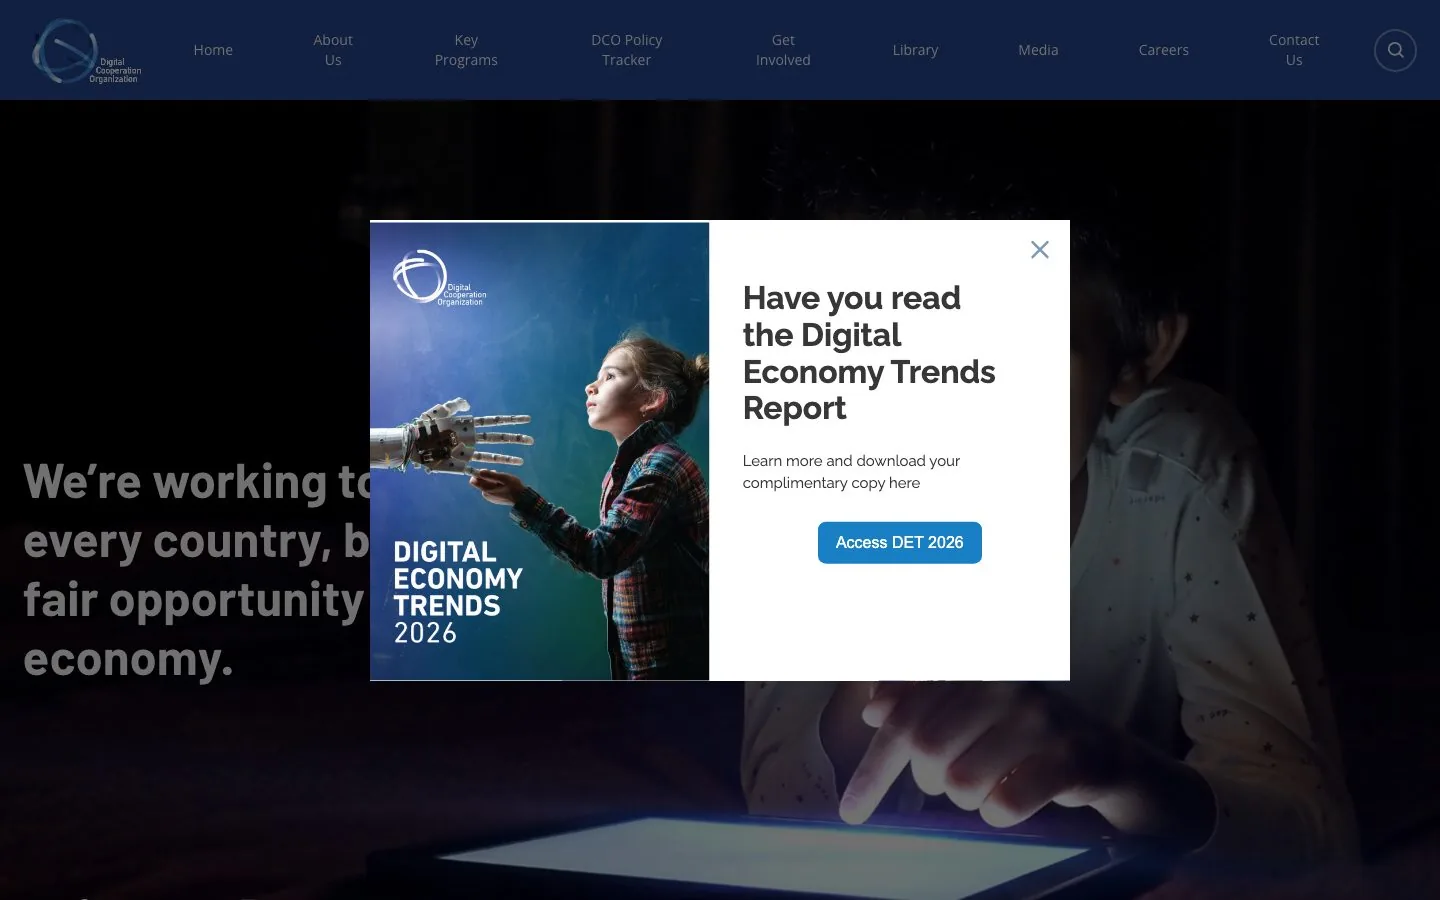
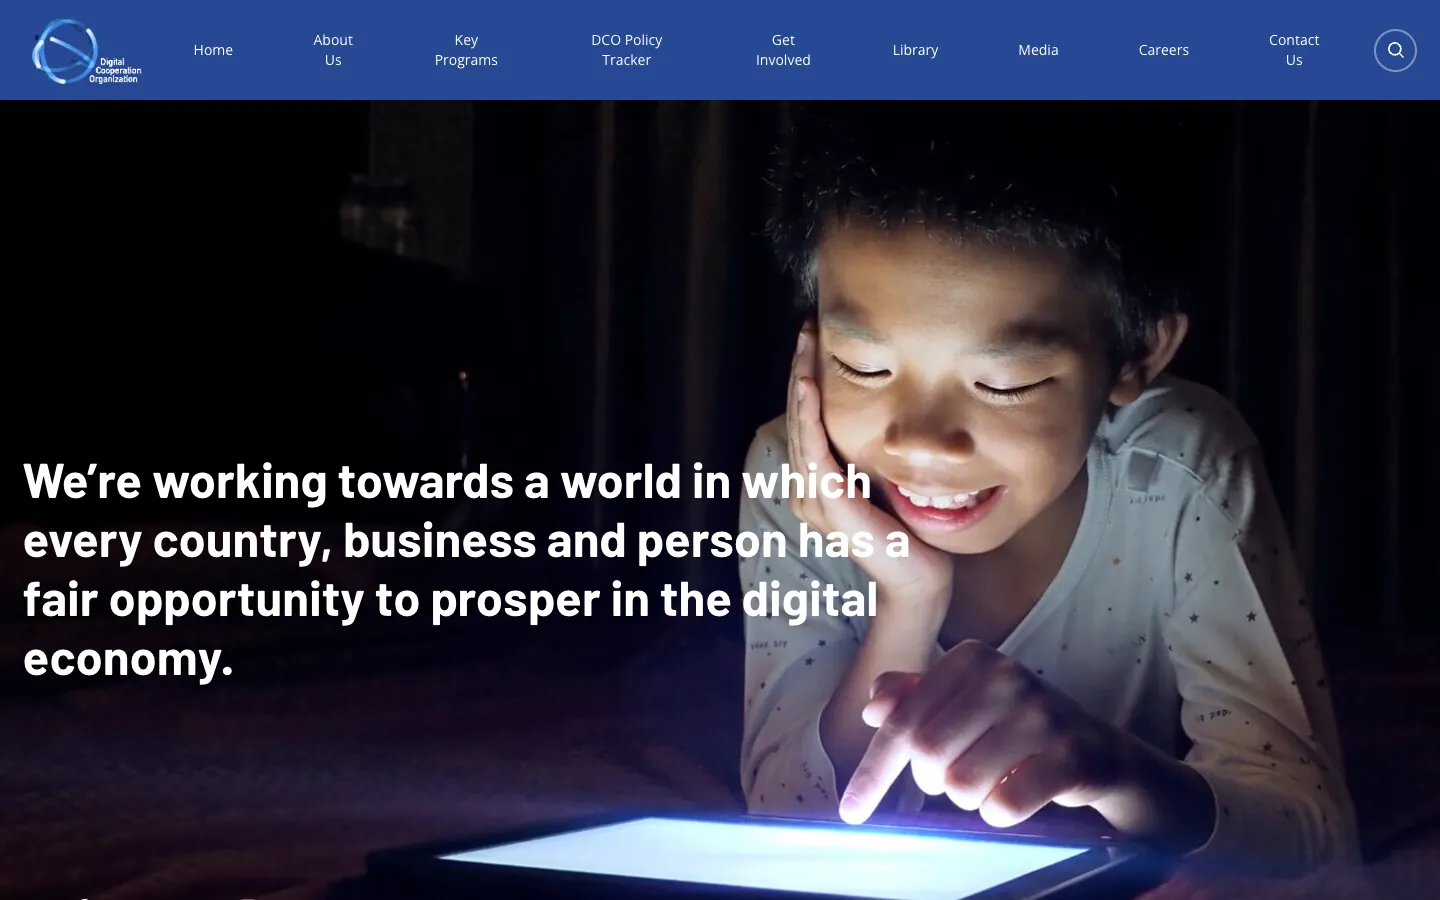
fix(work): DCO was a Webook project; its preview without the report popup

diff --git a/src/content/site.ts b/src/content/site.ts
@@ -396,7 +396,7 @@ export const proof = {
     kafu: "Technical lead, Webook",
     "smart-investor": "Tech manager, BIM Ventures",
     eeaward: "Tech manager, BIM Ventures",
-    dco: "Tech manager, BIM Ventures",
+    dco: "Technical lead, Webook",
     bimventures: "Tech manager, BIM Ventures",
     "react-brackets": "Creator",
   } as Record<string, string>,
